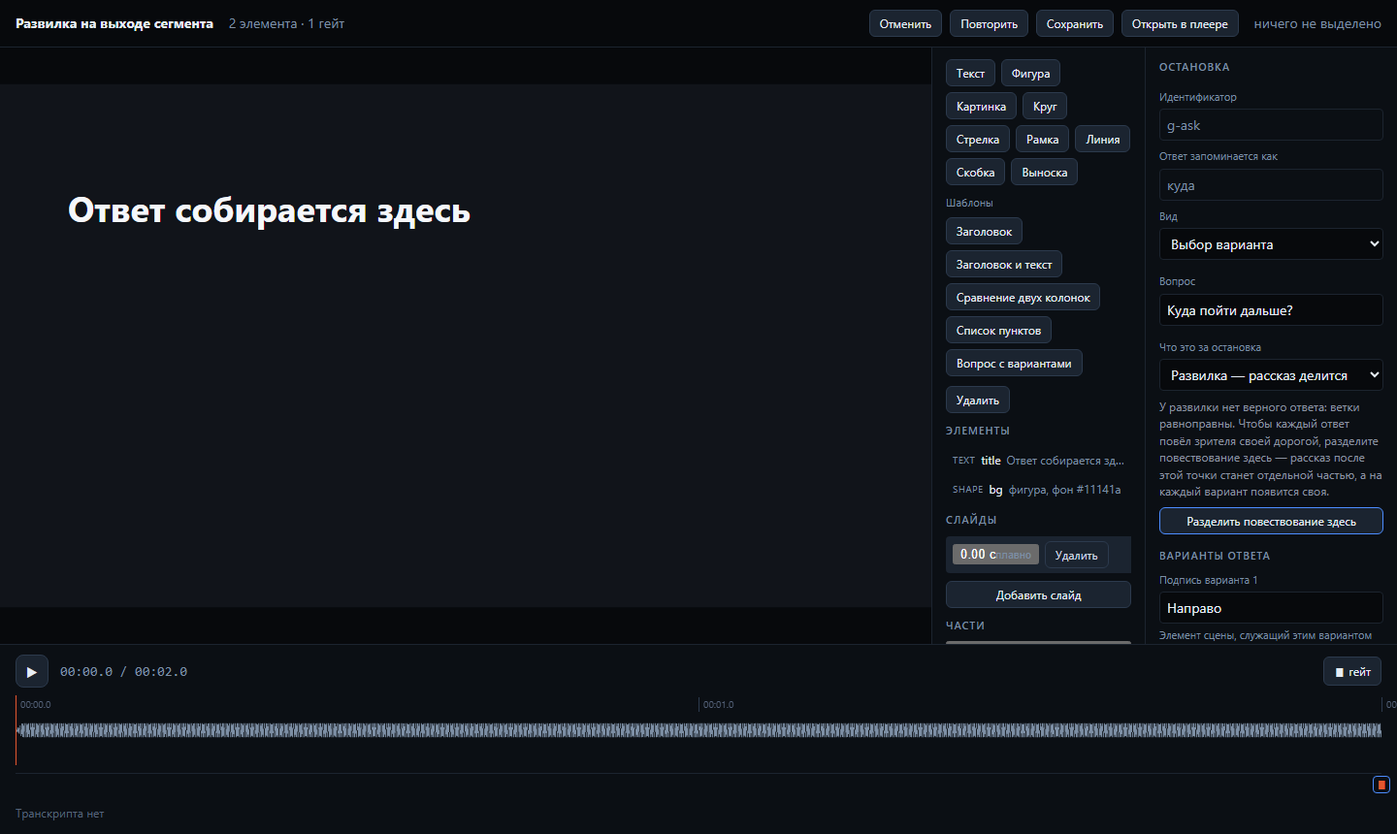
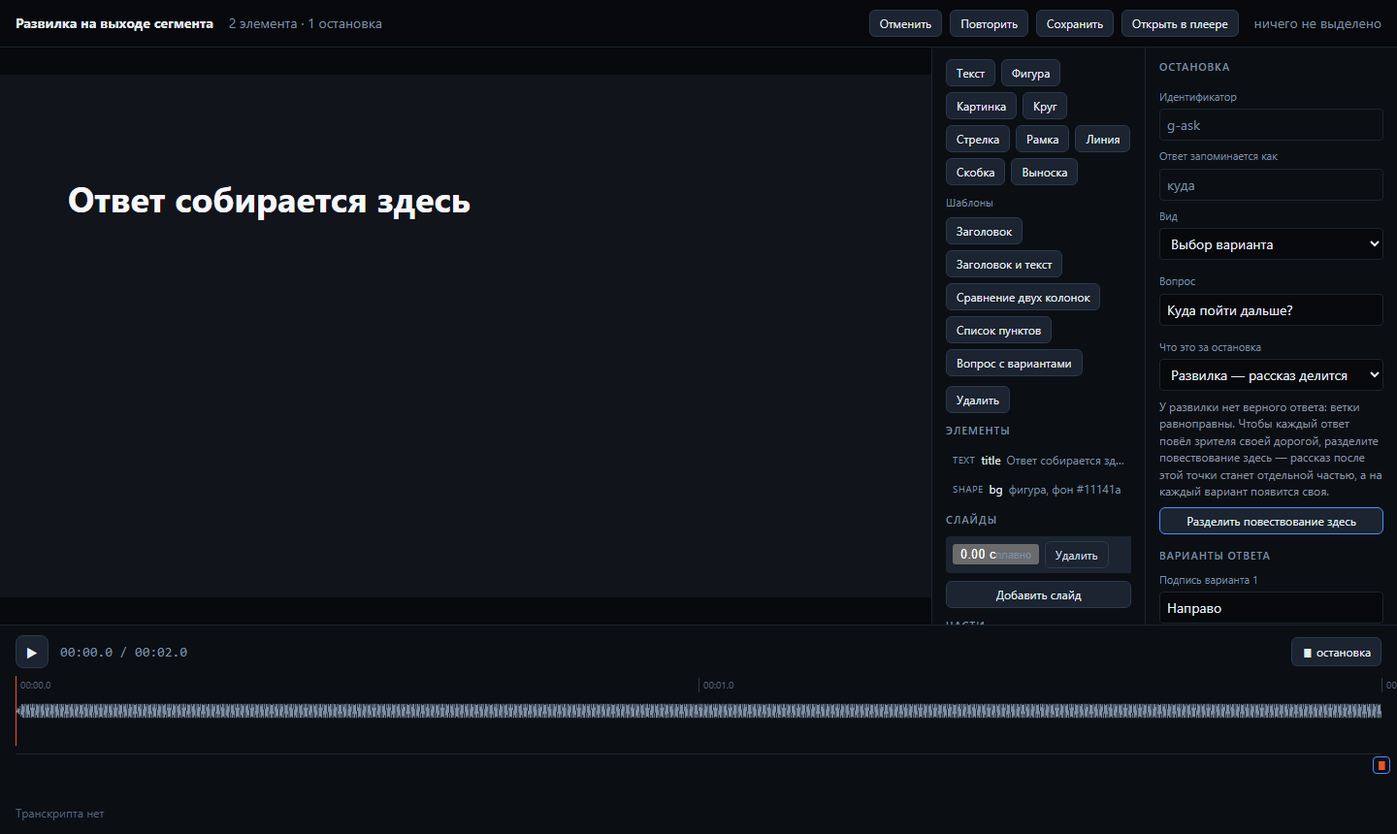
Документы Сессии 8: ADR-018, статус, долги, словарь автора
ADR-018 — окно дорожки и развилка без верного ответа. Записаны и отвергнутые
варианты: резать сам файл (переоткрытие решения [Р]), отдельное поле «тип
остановки» (рассогласуется с correctId при первой правке вариантов), слова
в координатах файла (переписывает всё, что считает время). Отдельным
разделом — чего ADR НЕ проверяет: что звучит именно нужный участок файла.

status.md: числа из прогона, а не из памяти. 1012 юнитов, 186 e2e, код
возврата 0. Фикстур 12. Схема v4. Раздел «что красное» впервые пуст.

planning.md: три новых записи.
  §12.11 — противоречие ADR-015 и ADR-016 (снимок слайда наступает
    на 0.6 с позже слайда). Это вопрос владельцу, а не долг исполнения:
    обосновано числами, предложено решение, честно названа цена правки
    и причина, по которой она не сделана в последнюю сессию.
  §12.12 — окно дорожки не проверено ЗВУКОМ. Названо, чего именно не
    покрывает зелёный e2e, и дана дешёвая проверка ушами до спайка.
  §12.13 — набор вариантов развилки не зависит от прошлых ответов.
    Владелец этого хочет, заданием делать запрещено; предложена форма,
    которая ложится на существующий Condition без новой сущности.
§12.8 и §13.5 помечены закрытыми.

product.md: §2а — словарь автора как решение [Р], подтверждённое владельцем.
Пункт про два типа остановки переведён из [О] в [Р].

Claude-Session: https://claude.ai/code/session_01UuJwCECzW1MZRS5ECDk7ZY

Changed region(s): [[0.0, 0.7558, 1.0, 0.9372], [0.0312, 0.2116, 0.3438, 0.2721]]

diff --git a/e2e/shots.spec.ts b/e2e/shots.spec.ts
@@ -54,7 +54,7 @@ test.describe('@shots снимки продукта', () => {
     for (const t of ['0.000', '1.200', '1.500', '1.800', '2.250', '3.000']) {
       await page.goto(`/preview.html?fixture=morph&t=${t}&fonts=test`, { waitUntil: 'load' });
       await page.waitForFunction(() => document.documentElement.dataset['ready'] === '1');
-      await page.locator('#stage').screenshot({ path: `${OUT}/morph-${t.replace('.', '-')}.png` });
+      await page.locator('#stage-host').screenshot({ path: `${OUT}/morph-${t.replace('.', '-')}.png` });
     }
   });
 
@@ -66,5 +66,11 @@ test.describe('@shots снимки продукта', () => {
       .poll(() => page.evaluate(() => document.getElementById('state')?.textContent), { timeout: 15_000 })
       .toBe('at-gate');
     await page.screenshot({ path: `${OUT}/gate-open.png` });
+  });
+
+  test('голый HTML: инвариант №9 глазами', async ({ page }) => {
+    await page.goto('/bare.html', { waitUntil: 'load' });
+    await page.waitForTimeout(1500);
+    await page.screenshot({ path: `${OUT}/bare.png` });
   });
 });

diff --git a/docs/adr/ADR-018-audio-window-and-fork.md b/docs/adr/ADR-018-audio-window-and-fork.md
@@ -1,0 +1,112 @@
+# ADR-018: Окно дорожки у части и развилка без верного ответа (схема v4)
+
+Дата: 2026-07-31
+Статус: принято
+
+## Контекст
+
+Два продуктовых решения были приняты словами, но нигде не выражены
+в данных, и оба уперлись в одну задачу — разрез повествования по развилке.
+
+**«Аудио физически не режется»** ([Р] в `product.md`). До версии 4 часть
+и файл были склеены один к одному: `audio` — это `src`, `duration`, `words`,
+и сказать «я звучу с двенадцатой по тридцатую секунду этого файла» было
+нечем. Значит разрезать цельное повествование можно было только породив
+второй файл — то есть нарушив ровно то решение, которое хотели соблюсти.
+
+**«У развилки нет верного ответа»** ([О] в `product.md`, названо владельцем
+30.07.2026). `ChoiceConfig.correctId` был обязателен всегда, поэтому
+развилка была вынуждена назначать «правильную» ветку. В
+`fixtures/projects/exit-branch.json` это лежало как `correctId: "opt-yes"` —
+ложь в данных, оставленная видимой намеренно.
+
+Оба изменения трогают схему, то есть требуют бампа версии, миграции,
+фикстуры и теста (инвариант №7).
+
+## Решение
+
+### Одна миграция на оба изменения
+
+v3 → v4 делает обе правки сразу. Две отдельные ступени означали бы два
+прохода по всем фикстурам и два окна, в которых схема наполовину описывает
+реальность. Атомарный переход дешевле и честнее: проект либо целиком
+старый, либо целиком новый.
+
+### Окно: `audio.offset`, и оно НЕ меняет систему координат
+
+У дорожки части появилось смещение — с какой секунды **файла** она звучит.
+Несколько частей ссылаются на один файл разными участками.
+
+Ключевое ограничение: **внутри части время по-прежнему идёт от нуля.**
+Слова транскрипта, `TimeRef`, слайды и гейты считаются от начала части,
+а `duration` — длина окна, а не остаток файла.
+
+Альтернатива — держать слова в координатах файла — заставила бы переписать
+всё, что считает время, и потеряла бы правило «первый слайд стоит на нуле»
+(`schema.ts`, проверка первого слайда). Выбранный вариант это правило
+сохраняет: бамп не потребовал ни одной правки в продуктовом коде, кроме
+двух мест, где время части переводится в позицию внутри файла.
+
+Таких мест ровно два, и оба заводят воспроизведение:
+
+- `Player` — семь точек перевода, включая неочевидную `freezeAt`: гейт
+  живёт в координатах части, а часы — в координатах файла;
+- `Transport` редактора — позиция, перемотка, конец дорожки и, отдельно,
+  волна: она рисуется по своему участку буфера, иначе автор видел бы форму
+  всей дорожки под куском, который к ней не относится.
+
+### Развилка: `correctId: Id | null`
+
+`null` значит «верного ответа нет». Различие выражено **значением**, а не
+отдельным полем «тип остановки»: два поля можно рассогласовать, значение
+рассогласовать не с чем.
+
+Схема заодно отклоняет вердикт `correct`/`wrong` о переменной развилки:
+сравнивать было бы не с чем, и такое правило никогда бы не сработало —
+то есть ветка оказалась бы недостижимой навсегда при полностью валидном
+проекте. Это тот же род дефекта, который схема уже ловит для исчезнувшего
+варианта ответа.
+
+### Чего миграция НЕ делает
+
+`correctId` старых проектов **не превращается в `null`**. Соблазн
+«догадаться, что это была развилка» — по тому, читают ли переменную гейта
+правила выхода, — превратил бы миграцию в угадайку: вопрос, чей ответ
+используется для ветвления, — законная и частая конструкция, неотличимая
+по данным от развилки. В версии 3 схема требовала верный ответ у КАЖДОГО
+выбора, поэтому единственное честное прочтение старого файла: все его
+выборы — вопросы. Развилку автор объявляет сам.
+
+## Следствия
+
+- Разрез повествования (`splitAtGate`) стал выразим: голова и продолжение
+  делят один файл соседними окнами, ветки берут дорожку по ссылке — та же
+  конвенция, что у `addSegment`.
+- `exit-branch.json` поднят до версии 4, ложь `correctId` убрана.
+  `inline-explain.json` и `morph.json` намеренно оставлены в версии 3,
+  чтобы свежая ступень цепочки проверялась на настоящих данных.
+- Появилась фикстура `split-track.json`: четыре части на одном файле
+  окнами 0…2.5, 4…4.6, 5…5.6 и 6…7.5 — случай, которого до сих пор
+  не существовало.
+
+## Что этим НЕ проверено
+
+e2e доказывает проходимость обеих веток и согласованность координат
+(перепутанные координаты дали бы отрицательную позицию). Он **не
+доказывает, что звучит именно нужный участок файла**: если бы плеер
+игнорировал `offset` и стартовал с нуля, позиция всё равно шла бы от нуля
+и тест остался бы зелёным. Отличить это можно только на слух или анализом
+самого звука — такого измерения нет. Записано в `planning.md` §12.12.
+
+## Отвергнутые варианты
+
+**Резать аудиофайл на части.** Прямое переоткрытие решения [Р]: потребовало
+бы кодирования звука в браузере, породило бы копии одного материала
+и сделало бы правку границы разреза необратимой.
+
+**Отдельное поле `kind: 'question' | 'fork'` у остановки.** Рассогласуется
+с `correctId` при первой же правке списка вариантов, и тогда схема должна
+была бы решать, чему верить.
+
+**Хранить слова в координатах файла.** Переписывает всё, что считает время,
+и ломает правило «первый слайд на нуле» ради удобства одной операции.

diff --git a/docs/planning.md b/docs/planning.md
@@ -824,7 +824,14 @@ ElementState { x, y, width, height, rotation, opacity, visible, style }
 выключен `test.skip`. Он оставлен намеренно — как только сцена поедет
 за головкой, он снимается с паузы и обязан позеленеть без правок.
 
-### 12.8. У развилки нет правильного ответа, а схема его требует
+### 12.8. ЗАКРЫТО в Сессии 8: у развилки нет правильного ответа, а схема его требовала
+
+**Закрыто схемой v4:** `correctId: Id | null`, где `null` значит «развилка».
+Ложь из `exit-branch.json` убрана, схема отклоняет вердикт «верно»/«неверно»
+о переменной развилки. → [ADR-018](adr/ADR-018-audio-window-and-fork.md)
+
+Ниже — исходная запись долга.
+
 
 Названо владельцем после Сессии 7 при разборе модели. Он сформулировал
 два типа гейта: обычный (не развилка) и развилка. Код это различие
@@ -870,6 +877,79 @@ ElementState { x, y, width, height, rotation, opacity, visible, style }
 Ограничение согласовано с §12.9 и не является дефектом. Но автор о нём
 узнаёт только когда схема откажется сохранять проект — а должен видеть
 заранее, в панели гейта.
+
+### 12.11. Картинка слайда наступает на 0.6 с позже самого слайда — ВОПРОС ВЛАДЕЛЬЦУ
+
+**Не долг исполнения, а противоречие двух принятых решений.** ADR-015
+определяет слайд как «снимок состояния сцены В МОМЕНТ времени». ADR-016
+решил, что переход к слайду начинается В ЭТОТ ЖЕ момент и длится
+`MORPH_DURATION_S` после него. Вместе: снимок, объявленный на секунде T,
+наступает на T + 0.6.
+
+**Цена.** Метки времени привязаны к словам транскрипта (инвариант №10)
+именно ради совпадения картинки со звуком. Автор ставит слайд на слово,
+а картинка приезжает позже слова — систематически, на каждом переходе.
+
+**Обосновано числами**, см. `known-bugs.md` §10: центр элемента в эталоне
+(746, 505) против (716, 486) в текущем коде на секунде 1.500.
+
+**Предложение.** Развернуть переход: идти от `T − morphSeconds` к `T`,
+урезая длительность расстоянием до ПРЕДЫДУЩЕГО слайда, а не до следующего.
+Тогда в момент слайда сцена равна его снимку, а движение предшествует ему —
+как в озвученном видео, где картинка приезжает к слову, а не после него.
+
+**Цена правки — высокая, потому и не сделана в последнюю сессию.**
+Затрагивает `indexAt`, `transitionAt`, `#activate`, `#drive` в `slides.ts`
+(в интервале перед слайдом активным должен остаться предыдущий, а рисоваться
+уже переход к следующему), плюс `settle()`, гейт внутри перехода и все
+эталоны с тестами морфинга Сессии 7. Это правка уровня ADR.
+
+---
+
+### 12.12. Окно дорожки не проверено ЗВУКОМ
+
+Схема v4 дала части окно внутри файла, плеер и транспорт редактора
+переведены в две системы координат. e2e доказывает проходимость обеих веток
+и ловит перепутанные координаты (они дали бы отрицательную позицию).
+
+**Чего доказательство НЕ покрывает:** что звучит именно нужный участок
+файла. Если бы плеер игнорировал `offset` и стартовал с нуля, позиция всё
+равно шла бы от нуля, и тест остался бы зелёным.
+
+**Почему не закрыто.** Отличить можно только на слух или анализом самого
+звука. Первое мне недоступно, второе — отдельный спайк: снять выход
+`AudioContext` через `MediaStreamDestination`, сверить с эталонным участком
+файла по огибающей.
+
+**Цена ошибки, если гипотеза неверна:** разрезанное повествование звучит
+не тем куском дорожки, а картинка при этом правильная — то есть дефект
+выглядит как «озвучка не совпадает с видео», и искать его будут не там.
+
+**Дешёвая проверка до спайка:** открыть `?fixture=split-track`, ответить
+на развилке и послушать, звучат ли три части разными кусками `demo.mp3`.
+
+---
+
+### 12.13. Набор вариантов развилки не зависит от прошлых ответов
+
+Владелец назвал это прямо 30.07.2026: зная, что зритель не ответил
+на такой-то вопрос, на развилке ему можно дать МЕНЬШЕ вариантов; ответил
+верно — просто идёт дальше. Вопросы копят контекст, развилки его тратят.
+
+**Чего нет:** варианты гейта — статический список. Условия (`equals`,
+`correct`, `wrong`) умеют выбирать ВЕТКУ, но не умеют менять сам НАБОР
+вариантов.
+
+**Почему не сделано:** это новая механика, а не долг. Прямо отнесено
+заданием Сессии 8 к тому, что делать не надо.
+
+**Предложение на будущее:** необязательное поле `when` у варианта ответа —
+вариант показывается, если условие подошло. Тогда механика ложится
+на существующий `Condition` без новой сущности, а схема обязана проверить,
+что хотя бы два варианта остаются видимыми при любом наборе ответов, —
+иначе выбор из одного варианта перестаёт быть выбором.
+
+---
 
 ### 12.6. Закрыто в Сессии 7: хиттест редактора не видел скрытых элементов
 
@@ -983,7 +1063,7 @@ opacityProperty: true })`. Порог по прозрачности оставл
 взаимодействие. Намерение требования — «зритель не отвечает поверх едущих
 элементов» — соблюдено полностью, перелёт остаётся 18.57 мс.
 
-### 13.5. Слово «сегмент» протекает в интерфейс
+### 13.5. ЗАКРЫТО в Сессии 8: Слово «сегмент» протекает в интерфейс
 
 `product.md` §2 [Р]: «В интерфейсе нет слова „нода“. Для пользователя это
 „части“.» Панель сейчас подписана «СЕГМЕНТЫ» — это внутреннее слово, попавшее

diff --git a/docs/product.md b/docs/product.md
@@ -86,6 +86,31 @@
 
 ---
 
+## 2а. Словарь: как эти вещи называются автору
+
+**[Р] Подтверждено владельцем 31.07.2026, применено в Сессии 8.**
+
+Автор не должен знать внутренних слов схемы. В интерфейсе их больше нет.
+
+| В коде и схеме | Автору | Что это |
+|---|---|---|
+| `segment` | **часть** | кусок объяснения со своей дорожкой |
+| `slide` | **слайд** | снимок сцены в момент времени |
+| `gate` | **остановка** | общее: плеер встал, зритель отвечает |
+| `gate` с верным ответом | **вопрос** | остановка посреди части, рассказ идёт дальше |
+| `gate` без верного ответа | **развилка** | остановка в конце, объяснение делится |
+| `exit` | — | автору не показывается вовсе |
+| `element` | **элемент** | текст, фигура, картинка |
+
+Смысл последней строки в том, что **автор не должен знать про «выход
+части»**. Он ставит развилку — правила выхода появляются сами. Одна сущность
+в интерфейсе вместо двух в схеме.
+
+Слово «нода» в интерфейсе не появляется (см. §2). Слово «гейт» ушло из
+счётчиков, кнопок дорожки, заголовка панели и подсказок меток.
+
+---
+
 ## 3. Время
 
 **[Р] У раздела ровно один источник времени.** Формулировка «аудио — источник
@@ -222,17 +247,17 @@ Clock {
 его нечем. Переменные и условия для этого уже есть, не хватает механики
 на стороне гейта. Это новая механика, а не долг реализации.
 
-**[О] У гейта два типа, и схема знает только один.** Названо владельцем
-30.07.2026 при разборе модели после Сессии 7: гейт бывает **вопросом**
-(у него есть верный ответ) и **развилкой** (обе ветки равноправны, верного
-нет). Код различает их только косвенно — по тому, читают ли переменную
-гейта правила выхода части. В схеме `ChoiceConfig.correctId` обязателен
-всегда, поэтому развилка вынуждена назначать «правильную» ветку.
-В `fixtures/projects/exit-branch.json` это видно как ложь в данных.
+**[Р] У остановки два типа, и схема знает оба.** Решено владельцем
+31.07.2026, сделано в Сессии 8. Остановка бывает **вопросом** (у него есть
+верный ответ) и **развилкой** (ветки равноправны, верного нет). Различие
+выражено значением `ChoiceConfig.correctId`: `null` значит «развилка».
 
-Предложение: `correctId: Id | null`, где `null` — «развилка». Одно поле,
-миграция v3 → v4 без потерь. Это бамп схемы, поэтому решение владельца.
-Подробности и последствия — `planning.md` §12.8–12.10.
+Отдельного поля «тип остановки» намеренно нет — два поля можно
+рассогласовать, значение рассогласовать не с чем. Ложь в
+`fixtures/projects/exit-branch.json` убрана. Схема заодно отклоняет вердикт
+«верно»/«неверно» о переменной развилки: сравнивать было бы не с чем, и такая
+ветка оказалась бы недостижимой навсегда.
+→ [ADR-018](adr/ADR-018-audio-window-and-fork.md)
 
 Сюда же примыкает правило, которое пока нигде не записано: **гейт-развилка
 обязан быть последним в своей части**, потому что развилка срабатывает
